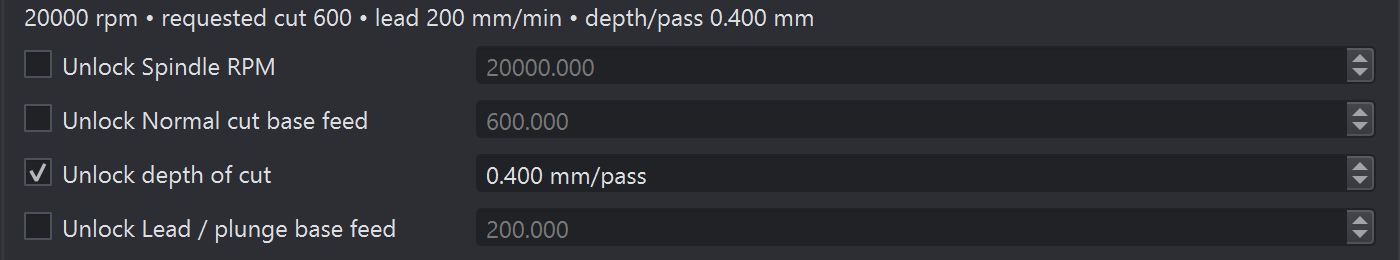
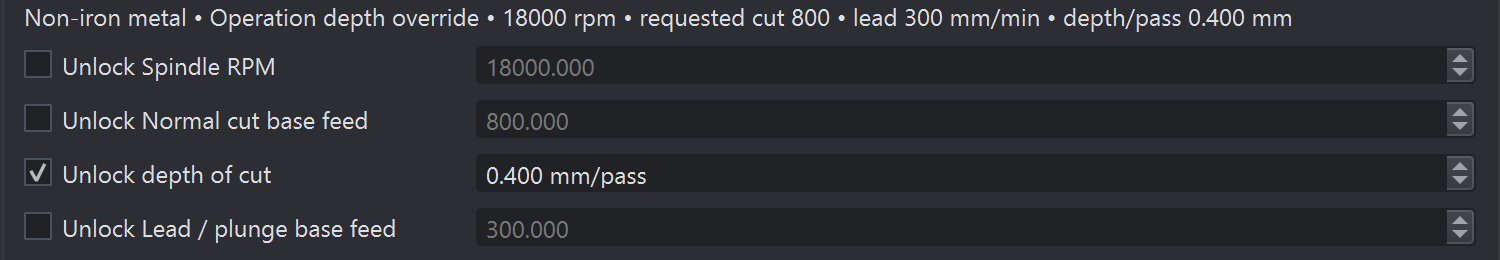
Expose active material and saved axial-depth source in CAM summaries and tool editor

diff --git a/gcodeproducer/core/cam_cutting.py b/gcodeproducer/core/cam_cutting.py
@@ -33,7 +33,8 @@ def material_parameters():
         for process, percent in (("slot",15.),("pocket",25.),("profile",40.)):
             params.append(Param(f"{key}_{process}_axial", "float", percent, min=1, max=200,
                                 unit="% D", group=group, label=f"{process.title()} axial depth",
-                                help="Default stepdown as percentage of tool diameter, capped by max depth/pass."))
+                                help=f"Automatic {process} stepdown for {label} only (choose the machining category in Material / stock). "
+                                     "Percentage of tool diameter, capped by Max depth/pass; the operation depth override takes precedence."))
     return params
 
 
@@ -44,9 +45,15 @@ class CuttingData:
     lead_feed: float
     stepdown: float
     material: str
+    depth_source: str = ""
+    requested_stepdown: float = 0.0
 
     def summary(self):
-        return f"{self.rpm:.0f} rpm • requested cut {self.feed:g} • lead {self.lead_feed:g} mm/min • depth/pass {self.stepdown:.3f} mm"
+        label = next((m[1] for m in MATERIALS if m[0] == self.material), self.material)
+        source = f" • {self.depth_source}" if self.depth_source else ""
+        cap = f" (capped from {self.requested_stepdown:.3f})" if self.requested_stepdown > self.stepdown+1e-9 else ""
+        return (f"{label}{source} • {self.rpm:.0f} rpm • requested cut {self.feed:g} • lead {self.lead_feed:g} mm/min "
+                f"• depth/pass {self.stepdown:.3f} mm{cap}")
 
 
 def resolve_cutting(machine, tool, stock=None, operation=None):
@@ -87,9 +94,13 @@ def resolve_cutting(machine, tool, stock=None, operation=None):
             raise ValueError("Cut and lead/plunge feeds must be positive and finite")
     kind = getattr(operation,"kind","profile")
     axial_kind = kind if kind in ("slot","pocket","profile") else "slot"
-    step = diameter*float(tool.get(f"{key}_{axial_kind}_axial",15))/100
+    percent = float(tool.get(f"{key}_{axial_kind}_axial",15))
+    step = diameter*percent/100
+    depth_source = f"{axial_kind.title()} {percent:g}% D"
     if operation is not None and not operation.auto_stepdown:
         step = float(operation.stepdown)
+        depth_source = "Operation depth override"
+    requested_stepdown = step
     maximum = float(tool.get("max_doc",0) or 0)
     if not math.isfinite(maximum) or maximum<0:
         raise ValueError("Tool maximum depth/pass must be nonnegative and finite")
@@ -97,4 +108,4 @@ def resolve_cutting(machine, tool, stock=None, operation=None):
         step = min(step,maximum)
     if step <= 0 or not math.isfinite(step):
         raise ValueError("Depth per pass must be positive and finite")
-    return CuttingData(rpm,feed,lead,step,key)
+    return CuttingData(rpm,feed,lead,step,key,depth_source,requested_stepdown)

diff --git a/gcodeproducer/gui/library_dialog.py b/gcodeproducer/gui/library_dialog.py
@@ -1,6 +1,8 @@
 """Library editor: machines, materials, nozzles and tools (each its own library)."""
 from __future__ import annotations
 
+from dataclasses import replace
+
 from PyQt6.QtCore import Qt
 from PyQt6.QtWidgets import (QDialog, QDialogButtonBox, QHBoxLayout, QInputDialog, QLabel, QListWidget,
                              QListWidgetItem, QMessageBox, QPushButton, QScrollArea, QSplitter,
@@ -116,7 +118,25 @@ class LibraryDialog(QDialog):
         if p.kind == "machine":       # allowed_* multiselects list the consumable libraries
             for k in ("material", "nozzle", "tool"):
                 ctx[k] = [q.id for q in self.libset[k].all()]
-        editor = ParamEditor(schema(p.kind, p.workflow), p.resolved(), context=ctx)
+        params = schema(p.kind, p.workflow)
+        if p.kind == "tool":
+            from ..core.cam_cutting import MATERIALS
+            parent = self.parent()
+            setup = getattr(getattr(parent, "cam_editor", None), "setup", None)
+            active = setup.stock.category if setup is not None and getattr(parent, "workflow", None) == wf.CAM else None
+            labels = {m[0]: m[1] for m in MATERIALS}
+            if active in labels:
+                prefix = active+"_"
+                own = [q for q in params if q.group.startswith("Cut data:") and q.name.startswith(prefix)]
+                base = [q for q in params if not q.group.startswith("Cut data:")]
+                other = [q for q in params if q.group.startswith("Cut data:") and not q.name.startswith(prefix)]
+                params = base + [replace(q, group=q.group+" — active CAM material") for q in own] + other
+                self.hint.setText(_HINT["tool"] + f" Active CAM material: {labels[active]}. Its cutting table is first; "
+                                  "other materials have separate values below. Auto depth uses the stock's machining category.")
+            else:
+                self.hint.setText(_HINT["tool"] + " Cutting tables are per material. Auto depth uses the category "
+                                  "selected in CAM Material / stock, not always the first table.")
+        editor = ParamEditor(params, p.resolved(), context=ctx)
         editor.changed.connect(lambda vals, pr=p: pr.values.update(vals))
         self.editor_area.setWidget(editor)
 

diff --git a/tests/test_gui.py b/tests/test_gui.py
@@ -617,6 +617,34 @@ def test_new_cam_tool_enables_material_calculation(win,monkeypatch):
     dialog.close()
 
 
+def test_active_material_tool_table_is_first_and_auto_depth_refreshes_after_save(win):
+    from gcodeproducer.core.profiles import Profile
+    from gcodeproducer.gui.library_dialog import LibraryDialog
+    win.cb_workflow.setCurrentIndex(win.cb_workflow.findData("cam"))
+    win.cam_editor.setup.stock.category="non_iron_metal"
+    tool=Profile("tool","Different material depths",values={"diameter":4,"max_doc":2,
+                 "soft_wood_pocket_axial":10,"non_iron_metal_pocket_axial":17.5})
+    win.libset["tool"].add(tool)
+    ed=win.cam_editor;ed.set_tools(win.libset["tool"].all())
+    ed.tool_combo.setCurrentIndex(ed.tool_combo.findData(tool.id));ed.add_tool();ed.add_operation()
+    assert ed.stepdown.value()==.7
+    assert "Non-iron metal" in ed.cutting_summary.text() and "Pocket 17.5% D" in ed.cutting_summary.text()
+    dlg=LibraryDialog(win.libset,win,"tool",tool.id)
+    editor=dlg.editor_area.widget()
+    first_material=next(p.group for p in editor.params if p.group.startswith("Cut data:"))
+    assert "Non-iron metal" in first_material and "active CAM material" in first_material
+    assert editor._widgets["soft_wood_pocket_axial"].value()==10  # no copying wood values to metal
+    assert "Non-iron metal" in dlg.hint.text()
+    editor._widgets["non_iron_metal_pocket_axial"].setValue(12)
+    dlg.accept();win.libset.save()
+    win._reload_machines(win.cb_machine.currentData())
+    assert ed.stepdown.value()==.48
+    assert "Pocket 12% D" in ed.cutting_summary.text()
+    tool.values["non_iron_metal_profile_axial"]=30
+    ed.kind.setCurrentIndex(ed.kind.findData("profile"));ed.add_operation()
+    assert ed.stepdown.value()==1.2 and "Profile 30% D" in ed.cutting_summary.text()
+
+
 def test_tool_pocket_axial_pending_text_saves_before_dialog_closes(win):
     from gcodeproducer.gui.library_dialog import LibraryDialog
     from gcodeproducer.core.profiles import LibrarySet

diff --git a/tests/test_cam_cutting.py b/tests/test_cam_cutting.py
@@ -17,6 +17,30 @@ def fixture():
     return machine,tool,stock
 
 
+def test_saved_axial_values_follow_active_material_and_operation_kind(tmp_path):
+    from gcodeproducer.core.profiles import LibrarySet
+    machine,tool,stock=fixture()
+    tool.values.update(diameter=4, max_doc=2, soft_wood_pocket_axial=10,
+                       soft_wood_profile_axial=30, non_iron_metal_pocket_axial=17,
+                       non_iron_metal_profile_axial=35)
+    lib=LibrarySet(tmp_path);lib["tool"].add(tool);lib.save()
+    saved=LibrarySet(tmp_path).load()["tool"].get(tool.id)
+    for category,kind,percent in (("soft_wood","pocket",10),("soft_wood","profile",30),
+                                   ("non_iron_metal","pocket",17),("non_iron_metal","profile",35)):
+        stock.category=category
+        data=resolve_cutting(machine,saved,stock,Operation(kind=kind,auto_stepdown=True))
+        assert data.stepdown==pytest.approx(4*percent/100)
+        assert data.depth_source==f"{kind.title()} {percent}% D"
+        assert category==data.material
+        assert f"{percent}% D" in data.summary()
+    tool.values["max_doc"]=.5
+    stock.category="non_iron_metal"
+    data=resolve_cutting(machine,tool,stock,Operation(kind="profile",auto_stepdown=True))
+    assert "Profile 35% D" in data.summary() and "capped from 1.400" in data.summary()
+    manual=resolve_cutting(machine,tool,stock,Operation(auto_stepdown=False,stepdown=.3))
+    assert "Operation depth override" in manual.summary() and manual.stepdown==.3
+
+
 def test_sfm_chipload_and_tool_machine_caps():
     machine,tool,stock=fixture()
     op=Operation(kind="pocket",auto_stepdown=True)

diff --git a/docs/reference/profile-settings.md b/docs/reference/profile-settings.md
@@ -114,32 +114,32 @@ especially for CAM feeds, tool geometry, units, and reserved cooling fields.
 | `lead_feed_percent` — Lead feed percent | float / % | `35.0` | minimum 1; maximum 100 | Cutting calculation. Automatic lead/plunge feed as a percentage of calculated normal feed. |
 | `soft_wood_sfm` — SFM | float / ft/min | `600.0` | minimum 0.1 | Cut data: Soft wood.  |
 | `soft_wood_chip_load` — Chip load | float / mm/tooth | `0.05` | minimum 0.0001 | Cut data: Soft wood.  |
-| `soft_wood_slot_axial` — Slot axial depth | float / % D | `15.0` | minimum 1; maximum 200 | Cut data: Soft wood. Default stepdown as percentage of tool diameter, capped by max depth/pass. |
-| `soft_wood_pocket_axial` — Pocket axial depth | float / % D | `25.0` | minimum 1; maximum 200 | Cut data: Soft wood. Default stepdown as percentage of tool diameter, capped by max depth/pass. |
-| `soft_wood_profile_axial` — Profile axial depth | float / % D | `40.0` | minimum 1; maximum 200 | Cut data: Soft wood. Default stepdown as percentage of tool diameter, capped by max depth/pass. |
+| `soft_wood_slot_axial` — Slot axial depth | float / % D | `15.0` | minimum 1; maximum 200 | Cut data: Soft wood. Automatic slot stepdown for Soft wood only (choose the machining category in Material / stock). Percentage of tool diameter, capped by Max depth/pass; the operation depth override takes precedence. |
+| `soft_wood_pocket_axial` — Pocket axial depth | float / % D | `25.0` | minimum 1; maximum 200 | Cut data: Soft wood. Automatic pocket stepdown for Soft wood only (choose the machining category in Material / stock). Percentage of tool diameter, capped by Max depth/pass; the operation depth override takes precedence. |
+| `soft_wood_profile_axial` — Profile axial depth | float / % D | `40.0` | minimum 1; maximum 200 | Cut data: Soft wood. Automatic profile stepdown for Soft wood only (choose the machining category in Material / stock). Percentage of tool diameter, capped by Max depth/pass; the operation depth override takes precedence. |
 | `hard_wood_sfm` — SFM | float / ft/min | `400.0` | minimum 0.1 | Cut data: Hard wood.  |
 | `hard_wood_chip_load` — Chip load | float / mm/tooth | `0.04` | minimum 0.0001 | Cut data: Hard wood.  |
-| `hard_wood_slot_axial` — Slot axial depth | float / % D | `15.0` | minimum 1; maximum 200 | Cut data: Hard wood. Default stepdown as percentage of tool diameter, capped by max depth/pass. |
-| `hard_wood_pocket_axial` — Pocket axial depth | float / % D | `25.0` | minimum 1; maximum 200 | Cut data: Hard wood. Default stepdown as percentage of tool diameter, capped by max depth/pass. |
-| `hard_wood_profile_axial` — Profile axial depth | float / % D | `40.0` | minimum 1; maximum 200 | Cut data: Hard wood. Default stepdown as percentage of tool diameter, capped by max depth/pass. |
+| `hard_wood_slot_axial` — Slot axial depth | float / % D | `15.0` | minimum 1; maximum 200 | Cut data: Hard wood. Automatic slot stepdown for Hard wood only (choose the machining category in Material / stock). Percentage of tool diameter, capped by Max depth/pass; the operation depth override takes precedence. |
+| `hard_wood_pocket_axial` — Pocket axial depth | float / % D | `25.0` | minimum 1; maximum 200 | Cut data: Hard wood. Automatic pocket stepdown for Hard wood only (choose the machining category in Material / stock). Percentage of tool diameter, capped by Max depth/pass; the operation depth override takes precedence. |
+| `hard_wood_profile_axial` — Profile axial depth | float / % D | `40.0` | minimum 1; maximum 200 | Cut data: Hard wood. Automatic profile stepdown for Hard wood only (choose the machining category in Material / stock). Percentage of tool diameter, capped by Max depth/pass; the operation depth override takes precedence. |
 | `soft_plastic_sfm` — SFM | float / ft/min | `300.0` | minimum 0.1 | Cut data: Soft plastic.  |
 | `soft_plastic_chip_load` — Chip load | float / mm/tooth | `0.03` | minimum 0.0001 | Cut data: Soft plastic.  |
-| `soft_plastic_slot_axial` — Slot axial depth | float / % D | `15.0` | minimum 1; maximum 200 | Cut data: Soft plastic. Default stepdown as percentage of tool diameter, capped by max depth/pass. |
-| `soft_plastic_pocket_axial` — Pocket axial depth | float / % D | `25.0` | minimum 1; maximum 200 | Cut data: Soft plastic. Default stepdown as percentage of tool diameter, capped by max depth/pass. |
-| `soft_plastic_profile_axial` — Profile axial depth | float / % D | `40.0` | minimum 1; maximum 200 | Cut data: Soft plastic. Default stepdown as percentage of tool diameter, capped by max depth/pass. |
+| `soft_plastic_slot_axial` — Slot axial depth | float / % D | `15.0` | minimum 1; maximum 200 | Cut data: Soft plastic. Automatic slot stepdown for Soft plastic only (choose the machining category in Material / stock). Percentage of tool diameter, capped by Max depth/pass; the operation depth override takes precedence. |
+| `soft_plastic_pocket_axial` — Pocket axial depth | float / % D | `25.0` | minimum 1; maximum 200 | Cut data: Soft plastic. Automatic pocket stepdown for Soft plastic only (choose the machining category in Material / stock). Percentage of tool diameter, capped by Max depth/pass; the operation depth override takes precedence. |
+| `soft_plastic_profile_axial` — Profile axial depth | float / % D | `40.0` | minimum 1; maximum 200 | Cut data: Soft plastic. Automatic profile stepdown for Soft plastic only (choose the machining category in Material / stock). Percentage of tool diameter, capped by Max depth/pass; the operation depth override takes precedence. |
 | `hard_plastic_sfm` — SFM | float / ft/min | `200.0` | minimum 0.1 | Cut data: Hard plastic.  |
 | `hard_plastic_chip_load` — Chip load | float / mm/tooth | `0.02` | minimum 0.0001 | Cut data: Hard plastic.  |
-| `hard_plastic_slot_axial` — Slot axial depth | float / % D | `15.0` | minimum 1; maximum 200 | Cut data: Hard plastic. Default stepdown as percentage of tool diameter, capped by max depth/pass. |
-| `hard_plastic_pocket_axial` — Pocket axial depth | float / % D | `25.0` | minimum 1; maximum 200 | Cut data: Hard plastic. Default stepdown as percentage of tool diameter, capped by max depth/pass. |
-| `hard_plastic_profile_axial` — Profile axial depth | float / % D | `40.0` | minimum 1; maximum 200 | Cut data: Hard plastic. Default stepdown as percentage of tool diameter, capped by max depth/pass. |
+| `hard_plastic_slot_axial` — Slot axial depth | float / % D | `15.0` | minimum 1; maximum 200 | Cut data: Hard plastic. Automatic slot stepdown for Hard plastic only (choose the machining category in Material / stock). Percentage of tool diameter, capped by Max depth/pass; the operation depth override takes precedence. |
+| `hard_plastic_pocket_axial` — Pocket axial depth | float / % D | `25.0` | minimum 1; maximum 200 | Cut data: Hard plastic. Automatic pocket stepdown for Hard plastic only (choose the machining category in Material / stock). Percentage of tool diameter, capped by Max depth/pass; the operation depth override takes precedence. |
+| `hard_plastic_profile_axial` — Profile axial depth | float / % D | `40.0` | minimum 1; maximum 200 | Cut data: Hard plastic. Automatic profile stepdown for Hard plastic only (choose the machining category in Material / stock). Percentage of tool diameter, capped by Max depth/pass; the operation depth override takes precedence. |
 | `non_iron_metal_sfm` — SFM | float / ft/min | `300.0` | minimum 0.1 | Cut data: Non-iron metal.  |
 | `non_iron_metal_chip_load` — Chip load | float / mm/tooth | `0.03` | minimum 0.0001 | Cut data: Non-iron metal.  |
-| `non_iron_metal_slot_axial` — Slot axial depth | float / % D | `15.0` | minimum 1; maximum 200 | Cut data: Non-iron metal. Default stepdown as percentage of tool diameter, capped by max depth/pass. |
-| `non_iron_metal_pocket_axial` — Pocket axial depth | float / % D | `25.0` | minimum 1; maximum 200 | Cut data: Non-iron metal. Default stepdown as percentage of tool diameter, capped by max depth/pass. |
-| `non_iron_metal_profile_axial` — Profile axial depth | float / % D | `40.0` | minimum 1; maximum 200 | Cut data: Non-iron metal. Default stepdown as percentage of tool diameter, capped by max depth/pass. |
+| `non_iron_metal_slot_axial` — Slot axial depth | float / % D | `15.0` | minimum 1; maximum 200 | Cut data: Non-iron metal. Automatic slot stepdown for Non-iron metal only (choose the machining category in Material / stock). Percentage of tool diameter, capped by Max depth/pass; the operation depth override takes precedence. |
+| `non_iron_metal_pocket_axial` — Pocket axial depth | float / % D | `25.0` | minimum 1; maximum 200 | Cut data: Non-iron metal. Automatic pocket stepdown for Non-iron metal only (choose the machining category in Material / stock). Percentage of tool diameter, capped by Max depth/pass; the operation depth override takes precedence. |
+| `non_iron_metal_profile_axial` — Profile axial depth | float / % D | `40.0` | minimum 1; maximum 200 | Cut data: Non-iron metal. Automatic profile stepdown for Non-iron metal only (choose the machining category in Material / stock). Percentage of tool diameter, capped by Max depth/pass; the operation depth override takes precedence. |
 | `steel_sfm` — SFM | float / ft/min | `80.0` | minimum 0.1 | Cut data: Steel.  |
 | `steel_chip_load` — Chip load | float / mm/tooth | `0.015` | minimum 0.0001 | Cut data: Steel.  |
-| `steel_slot_axial` — Slot axial depth | float / % D | `15.0` | minimum 1; maximum 200 | Cut data: Steel. Default stepdown as percentage of tool diameter, capped by max depth/pass. |
-| `steel_pocket_axial` — Pocket axial depth | float / % D | `25.0` | minimum 1; maximum 200 | Cut data: Steel. Default stepdown as percentage of tool diameter, capped by max depth/pass. |
-| `steel_profile_axial` — Profile axial depth | float / % D | `40.0` | minimum 1; maximum 200 | Cut data: Steel. Default stepdown as percentage of tool diameter, capped by max depth/pass. |
+| `steel_slot_axial` — Slot axial depth | float / % D | `15.0` | minimum 1; maximum 200 | Cut data: Steel. Automatic slot stepdown for Steel only (choose the machining category in Material / stock). Percentage of tool diameter, capped by Max depth/pass; the operation depth override takes precedence. |
+| `steel_pocket_axial` — Pocket axial depth | float / % D | `25.0` | minimum 1; maximum 200 | Cut data: Steel. Automatic pocket stepdown for Steel only (choose the machining category in Material / stock). Percentage of tool diameter, capped by Max depth/pass; the operation depth override takes precedence. |
+| `steel_profile_axial` — Profile axial depth | float / % D | `40.0` | minimum 1; maximum 200 | Cut data: Steel. Automatic profile stepdown for Steel only (choose the machining category in Material / stock). Percentage of tool diameter, capped by Max depth/pass; the operation depth override takes precedence. |
 

diff --git a/docs/cam/cutting-data.md b/docs/cam/cutting-data.md
@@ -85,8 +85,10 @@ Each operation has independent checkboxes:
   feed with your own mm/min value.
 - **Unlock Lead / plunge base feed:** replace the independent entry feed.
 
-The calculated summary displays effective RPM, requested base feeds and
-resolved depth/pass. Positive machine `max_feed` caps emitted G1 rates.
+The calculated summary names the **stock machining category**, the actual
+process percentage (for example **Non-iron metal • Pocket 25% D**), effective
+RPM, requested base feeds and resolved depth/pass. A capped depth also shows
+the original request (for example `0.500 mm (capped from 1.400)`). Positive machine `max_feed` caps emitted G1 rates.
 Normal cuts and stay-down links additionally use their engagement modifiers.
 Contacting lead-in segments use the machine Slot modifier on the lead base
 feed; clear lead-out segments use lead base feed. Initial vertical approach
@@ -120,6 +122,24 @@ value stays editable while the summary shows the resolved depth. The old
 been replaced by this inverse checkbox, using the same saved operation
 fields. Existing manual stepdowns reopen with the override checked; existing
 automatic depths reopen unchecked.
+
+### Which saved table is used?
+
+Auto depth selects **tool + machining material + operation kind**, not a
+single tool-wide percentage. For a 4 mm tool with Soft wood Pocket = 10%
+and Non-iron metal Pocket = 25%, a Non-iron metal setup requests **1 mm**,
+not 0.4 mm. A Profile operation uses that material's Profile percentage, not
+its Pocket percentage. Nothing copies wood data into a metal table.
+
+![Automatic depth names its material and percentage](../pictures/cam-auto-depth-material-source.png)
+
+When Libraries → Tools is opened from CAM, the active material's cutting
+table is shown **first** and marked **active CAM material**; the library hint
+also names it. The other material tables remain below, separately editable.
+
+![Active material table is shown first](../pictures/cam-active-material-cutting-table.png)
+
+These captures use illustrative 4 mm tool values, not qualified cutting data.
 
 If a saved Pocket axial percentage appears not to affect the cut, check:
 

diff --git a/docs/pictures/README.md b/docs/pictures/README.md
@@ -23,6 +23,8 @@ paths; do not scatter new images across the documentation root.
 | [cam-tool-calculation.png](cam-tool-calculation.png) | Actual tool editor calculation checkbox, RPM ceiling and lead-feed percentage; isolated example profile | [Cutting data](../cam/cutting-data.md#automatic-calculation) |
 | [cam-tool-material-table.png](cam-tool-material-table.png) | Actual per-tool Non-iron metal SFM/chip-load/axial table; illustrative values, not a calibrated recipe | [Cutting data](../cam/cutting-data.md#per-tool-per-material-table) |
 | [settings-dialog.png](settings-dialog.png) | Actual File → Settings dialog with default values, including Default operation settings and Messages | [Global settings](../settings.md) |
+| [cam-auto-depth-material-source.png](cam-auto-depth-material-source.png) | Actual operation summary showing Non-iron metal Pocket 25% D = 1 mm/pass for an illustrative 4 mm tool | [Material-specific depth](../cam/cutting-data.md#which-saved-table-is-used) |
+| [cam-active-material-cutting-table.png](cam-active-material-cutting-table.png) | Actual tool editor with the active CAM machining material table first and labelled | [Material-specific depth](../cam/cutting-data.md#which-saved-table-is-used) |
 | [cam-depth-of-cut-override.png](cam-depth-of-cut-override.png) | Actual operation override rows: depth of cut unlocked at 0.4 mm/pass while feed, RPM and lead feed remain inherited; illustrative settings | [Depth override](../cam/cutting-data.md#automatic-versus-explicit-stepdown) |
 | [cam-mixed-boundary-selection.png](cam-mixed-boundary-selection.png) | Actual mixed selection: a circular part flange rim and one material top edge in the same Pocket | [Mixed boundaries](../cam/selection-and-depths.md#clear-between-the-part-and-material-edges) |
 | [cam-mixed-boundary-pocket.png](cam-mixed-boundary-pocket.png) | Actual Pocket clearing outside the selected flange rim up to the material envelope; yellow Conflict segments require review | [Mixed boundaries](../cam/selection-and-depths.md#clear-between-the-part-and-material-edges) |
